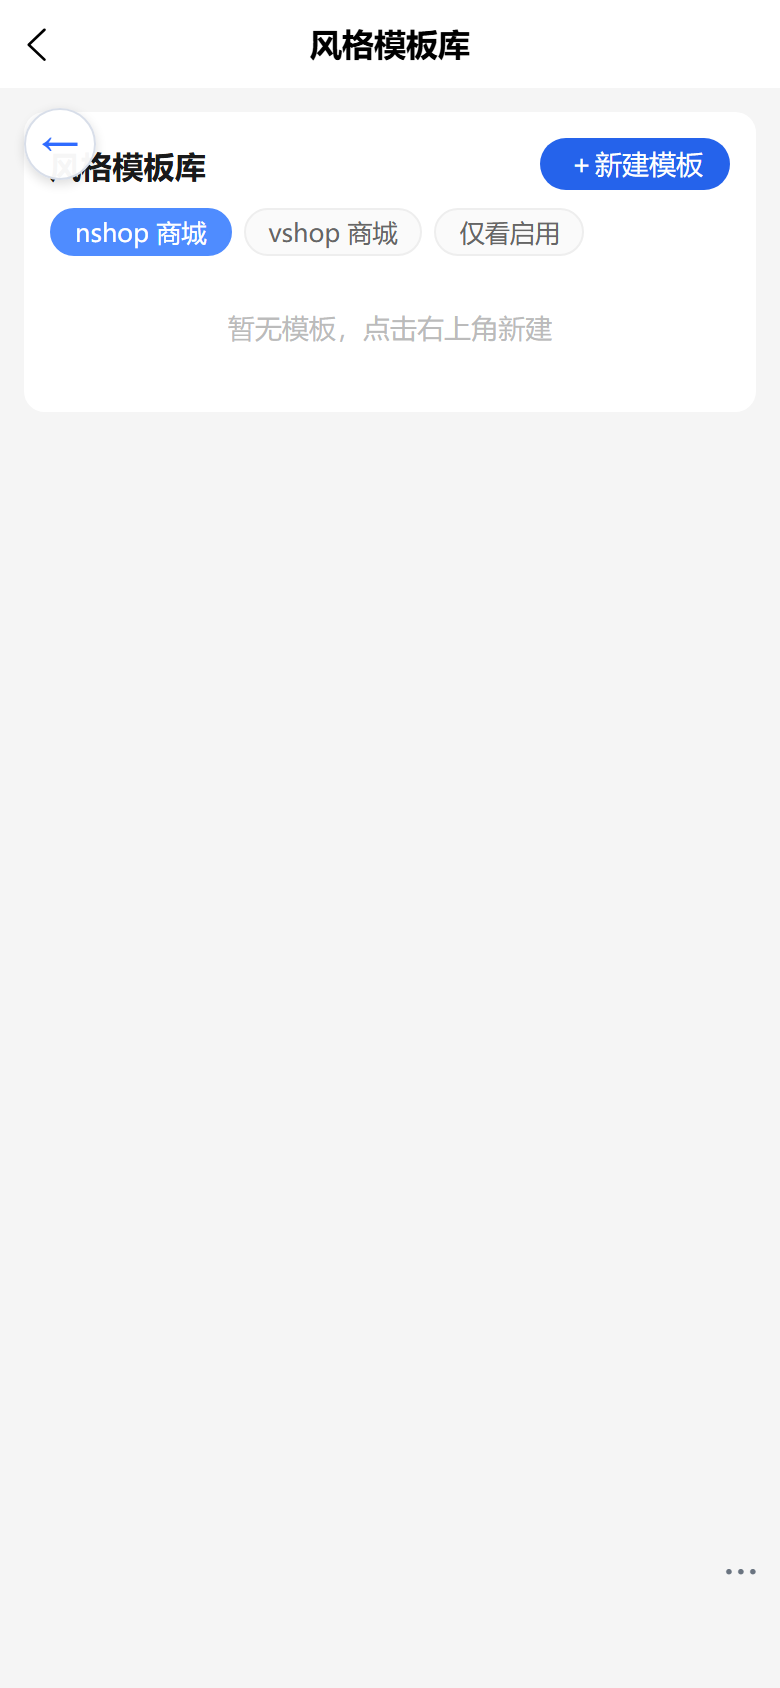
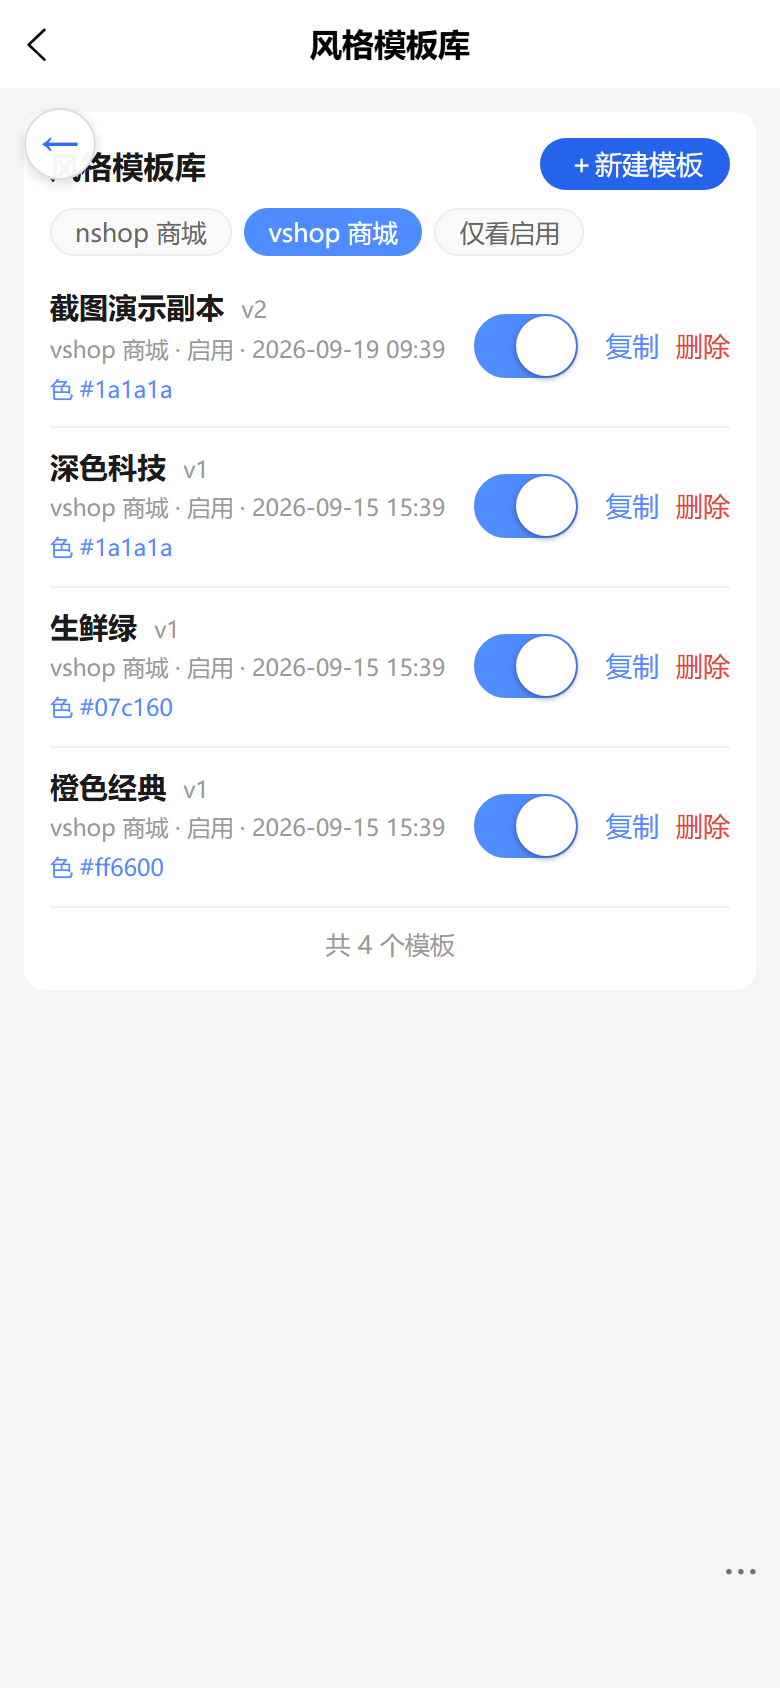
docs(admin): 补全多仓发货/模板管理手机截图

diff --git a/web-admin/_e2e/_shot_template_mgmt.py b/web-admin/_e2e/_shot_template_mgmt.py
@@ -1,11 +1,13 @@
 # -*- coding: utf-8 -*-
-# 风格模板库管理（引用徽标/历史版本/合并预览/删除警示）截图（租户管理员视角，390x844 dpr=2）
-# 账号：guoxinnanshan@163.com / you123123（t2 二月兰会员 租户管理员「田经理」）
-# 只截图与导航：警示框截图后点「取消」，历史版本不点「回滚」，不做删除/停用等写操作
+# 风格模板库管理（引用徽标/历史版本/合并预览/删除警示）截图（超管视角 + 副本模板制造版本历史）
+# 账号：superadmin / z123123
+# 副本安全：复制出一个「截图演示副本」→ 改名（产生 v1 快照）→ 截图 → API 删除副本，不留垃圾数据。
+# 只读导航：警示框截图后点「取消」，历史版本不点「回滚」，不做停用/删除真实模板。
 from playwright.sync_api import sync_playwright
-import time
+import time, json
 BASE='https://e.joho.cn/guanli/'
 SHOT='d:/zhao/vshop/web-admin/src/static/manual/shots/'
+COPY_NAME='截图演示副本'
 def shot(pg, name, delay=0):
     if delay: time.sleep(delay)
     pg.screenshot(path=SHOT+name)
@@ -17,50 +19,78 @@ with sync_playwright() as p:
     pg.goto(BASE,wait_until='networkidle',timeout=45000)
     pg.evaluate('localStorage.clear()'); pg.reload(wait_until='networkidle',timeout=45000)
     pg.locator('input').nth(0).wait_for(state='visible',timeout=30000)
-    pg.locator('input').nth(0).fill('guoxinnanshan@163.com')
-    pg.locator('input').nth(1).fill('you123123')
-    pg.locator('button, .btn').first.click(); time.sleep(7)
+    pg.locator('input').nth(0).fill('superadmin')
+    pg.locator('input').nth(1).fill('z123123')
+    pg.locator('button, .btn').first.click(); time.sleep(3)
+    # 选店页：点第一个店铺
+    try:
+        pg.locator('.item').first.click(timeout=8000); time.sleep(3)
+        print('channel selected')
+    except Exception as e:
+        print('channel select fail:', str(e)[:120])
     print('登录后 url=',pg.url, 'body=', pg.inner_text('body')[:120].replace('\n','|'))
-    # 选店：通过 API 获取 t2 channel token 注入 localStorage（绕开选店 UI 交互不稳定）
-    tok = pg.evaluate("""() => {
+    # 准备副本：清残留 → 复制第一个模板 → 改名（产生版本快照）→ 查版本
+    prep = pg.evaluate("""async (copyName) => {
       const t = localStorage.getItem('wa_auth_token');
-      return fetch('/admin-api', {method:'POST',
-        headers:{'Content-Type':'application/json','Authorization':'Bearer '+t},
-        body: JSON.stringify({query:'query{ myTenantAccess{ channels{ id code token } } }'})
-      }).then(r=>r.json()).then(d=>{
-        const c = (d.data.myTenantAccess.channels||[]).find(x=>x.code==='t2');
-        if (c) { localStorage.setItem('wa_channel_token', c.token); localStorage.setItem('wa_channel_code','t2'); return 'OK:'+c.token.slice(0,6); }
-        return 'NOCHANNEL';
-      }).catch(e=>'ERR:'+e.message);
-    }""")
-    print('channel token inject=', tok)
-    # 1) 模板列表（引用徽标）
-    pg.goto(BASE+'#/pages/platform/templates/index',wait_until='networkidle',timeout=45000); time.sleep(6)
+      const ct = localStorage.getItem('wa_channel_token');
+      const gql = async (query, variables) => {
+        const h = {'Content-Type':'application/json','Authorization':'Bearer '+t};
+        if (ct) h['vendure-token'] = ct;
+        const r = await fetch('/admin-api', {method:'POST',
+          headers:h,
+          body: JSON.stringify({query, variables})});
+        return r.json();
+      };
+      const F = 'id name app theme pages version enabled updatedAt';
+      let list = [];
+      for (const app of ['vshop','nshop']) {
+        const r = await gql('query ($app: String) { shopTemplates(app: $app) { '+F+' } }', {app});
+        if (r.data && Array.isArray(r.data.shopTemplates) && r.data.shopTemplates.length) { list = r.data.shopTemplates; break; }
+      }
+      if (!list.length) return JSON.stringify({err:'NO_TEMPLATES'});
+      const stale = list.find(x=>x.name===copyName);
+      if (stale) await gql('mutation ($id: ID!) { deleteShopTemplate(id: $id) }', {id: stale.id});
+      const t0 = list[0];
+      const cp = await gql('mutation ($id: ID!) { copyShopTemplate(id: $id) { '+F+' } }', {id: t0.id});
+      const c0 = cp.data && cp.data.copyShopTemplate;
+      if (!c0) return JSON.stringify({err:'COPY_FAIL', msg:(cp.errors?cp.errors[0].message:JSON.stringify(cp)).slice(0,200)});
+      const up = await gql('mutation ($input: UpdateShopTemplateInput!) { updateShopTemplate(input: $input) { '+F+' } }', {input: {id: c0.id, name: copyName}});
+      const vs = await gql('query ($id: ID!) { templateVersions(id: $id) { id version name note createdAt } }', {id: c0.id});
+      return JSON.stringify({src:{id:t0.id,app:t0.app,name:t0.name}, copy:{id:c0.id,app:c0.app,version:(up.data&&up.data.updateShopTemplate?up.data.updateShopTemplate.version:c0.version)}, versions:(vs.data&&vs.data.templateVersions||[]).map(v=>({v:v.version,name:v.name,note:v.note}))});
+    }""", COPY_NAME)
+    print('prep=', prep)
+    info = json.loads(prep)
+    copy_id = (info.get('copy') or {}).get('id','')
+    copy_app = (info.get('copy') or {}).get('app','vshop')
+    if info.get('err'):
+        print('PREP ERR:', info['err'])
+    # 进模板列表页
+    pg.goto(BASE+'#/pages/platform/templates/index',wait_until='networkidle',timeout=45000); time.sleep(5)
+    # 切到副本所在 app
+    try:
+        pg.locator('.chip', has_text='vshop 商城' if copy_app=='vshop' else 'nshop 商城').first.tap(timeout=5000); time.sleep(3)
+        print('app chip tapped:', copy_app)
+    except Exception as e:
+        print('app chip tap fail:', str(e)[:120])
     print('tpl list body=',pg.inner_text('body')[:500].replace('\n','|'))
     shot(pg,'tpl_list_badges.png')
-    # 2) 打开第一个模板编辑弹层 → 历史版本 Tab
+    # 打开副本模板编辑弹层
     try:
-        pg.locator('.item').first.tap(); time.sleep(2.5)
+        pg.locator('.item', has_text=COPY_NAME).first.tap(timeout=8000); time.sleep(2.5)
         print('edit modal body=',pg.inner_text('body')[:300].replace('\n','|'))
-        pg.locator('.tab', has_text='历史版本').tap(); time.sleep(3.5)
+        # 历史版本 Tab
+        pg.locator('.tab', has_text='历史版本').tap(timeout=5000); time.sleep(3)
         print('versions body=',pg.inner_text('body')[:400].replace('\n','|'))
         shot(pg,'tpl_history.png')
-        # 3) 合并预览 Tab（mApp 默认即模板 app，无覆盖场景直接生成；不做任何写操作）
-        pg.locator('.tab', has_text='合并预览').tap(); time.sleep(1.5)
-        pg.locator('.pop .btn', has_text='生成合并预览').first.tap(); time.sleep(3.5)
+        # 合并预览 Tab（默认无覆盖场景，mApp=模板 app）
+        pg.locator('.tab', has_text='合并预览').tap(timeout=5000); time.sleep(1.5)
+        pg.locator('.pop .btn', has_text='生成合并预览').first.tap(timeout=5000); time.sleep(3.5)
         if pg.locator('.mp').count() == 0:
             print('merged preview not shown, body=',pg.inner_text('body')[:400].replace('\n','|'))
         shot(pg,'tpl_preview.png')
-        # 4) 关闭弹层 → 删除警示框（优先被引用模板；无则第一个模板）→ 截图后取消
-        pg.locator('.pop-close').tap(); time.sleep(1.5)
-        refitem = pg.locator('.item', has_text='引用').first
-        if refitem.count() > 0:
-            refitem.locator('.link', has_text='删除').tap()
-            warn_from = 'referenced-template'
-        else:
-            pg.locator('.item .link', has_text='删除').first.tap()
-            warn_from = 'first-template'
-        time.sleep(2)
+        # 关闭弹层 → 副本删除警示框 → 截图后取消
+        pg.locator('.pop-close').tap(timeout=5000); time.sleep(1.5)
+        pg.locator('.item', has_text=COPY_NAME).locator('.link', has_text='删除').first.tap(timeout=8000); time.sleep(2)
         print('warn modal body=',pg.inner_text('body')[:400].replace('\n','|'))
         shot(pg,'tpl_warn.png')
         try:
@@ -68,10 +98,27 @@ with sync_playwright() as p:
             print('warn cancelled, mask count=', pg.locator('.mask').count())
         except Exception as e:
             print('cancel tap fail:', str(e)[:120])
+        warn_from = 'copy-template'
     except Exception as e:
-        print('template flow fail:', str(e)[:160])
+        print('template flow fail:', str(e)[:200])
         warn_from = 'flow-error'
         shot(pg,'tpl_warn.png')
     print('WARN FROM:', warn_from)
+    # 清理副本（API 删除，不留垃圾数据）
+    if copy_id:
+        del_res = pg.evaluate("""async (id) => {
+          const t = localStorage.getItem('wa_auth_token');
+          const ct = localStorage.getItem('wa_channel_token');
+          const h = {'Content-Type':'application/json','Authorization':'Bearer '+t};
+          if (ct) h['vendure-token'] = ct;
+          const r = await fetch('/admin-api', {method:'POST',
+            headers:h,
+            body: JSON.stringify({query:'mutation ($id: ID!) { deleteShopTemplate(id: $id) }', variables:{id}})});
+          const d = await r.json();
+          return JSON.stringify({deleted: d.data ? d.data.deleteShopTemplate : null, err: d.errors ? d.errors[0].message : null});
+        }""", copy_id)
+        print('DELETE_COPY=', del_res)
+    else:
+        print('DELETE_COPY=SKIP (no copy id)')
     b.close()
 print('done')

diff --git a/web-admin/_e2e/_shot_reservation.py b/web-admin/_e2e/_shot_reservation.py
@@ -1,7 +1,8 @@
 # -*- coding: utf-8 -*-
 # 预留单多仓拆分发货截图（租户管理员视角，390x844 dpr=2）
 # 账号：guoxinnanshan@163.com / you123123（t2 二月兰会员 租户管理员「田经理」）
-# 路径：优先用 t2 预留单 orderId 直进发货页（有仓库选择器）；无预留单则订单列表找待发货订单点「发货」进发货页
+# 路径：订单列表（本店渠道单）找可发货订单点「发货」→ 确认「进入发货」→ 发货页
+# 只读导航：不提交发货（不进 submit），出现确认框一律点取消/关闭。
 from playwright.sync_api import sync_playwright
 import time, json
 BASE='https://e.joho.cn/guanli/'
@@ -34,52 +35,95 @@ with sync_playwright() as p:
       }).catch(e=>'ERR:'+e.message);
     }""")
     print('channel token inject=', tok)
-    # 查 t2 是否有预留单（admin-api, Bearer wa_auth_token）
+    # 预留单探测（只读，不写；需带 channel token 上下文 vendure-token）
     rinfo = pg.evaluate("""async () => {
       const t = localStorage.getItem('wa_auth_token');
-      if (!t) return JSON.stringify({ err: 'NOTOKEN' });
+      const ct = localStorage.getItem('wa_channel_token');
+      const h = {'Content-Type':'application/json','Authorization':'Bearer '+t};
+      if (ct) h['vendure-token'] = ct;
       const r = await fetch('/admin-api', {method:'POST',
-        headers:{'Content-Type':'application/json','Authorization':'Bearer '+t},
-        body: JSON.stringify({query:'query { reservations(pageSize: 20) { totalItems items { orderId status } } }'})
-      });
+        headers:h,
+        body: JSON.stringify({query:'query { reservations(pageSize: 20) { totalItems items { orderId status } } }'})});
       const d = await r.json();
-      if (d.errors) return JSON.stringify({ err: JSON.stringify(d.errors).slice(0,200) });
+      if (d.errors) return JSON.stringify({ err: JSON.stringify(d.errors).slice(0,120) });
       const items = (d.data && d.data.reservations && d.data.reservations.items) || [];
       return JSON.stringify({ total: d.data.reservations.totalItems, first: items[0] || null });
     }""")
     print('reservations query=', rinfo)
-    path = 'unknown'
-    orderId = ''
-    try:
-        info = json.loads(rinfo)
-        if info.get('err'):
-            print('reservation query err, fallback to order list:', info['err'])
-            path = 'fallback-query-err'
-        elif info.get('first') and info['first'].get('orderId'):
-            orderId = info['first']['orderId']
-            path = 'reservation-direct'
-        else:
-            path = 'fallback-no-reservation'
-    except Exception as e:
-        path = 'fallback-parse-err'
-        print('reservation info parse err:', str(e)[:120])
-    if orderId:
-        pg.goto(BASE+'#/pages/order/ship/index?id='+orderId,wait_until='networkidle',timeout=45000); time.sleep(6)
-        print('ship page (reservation direct) url=',pg.url)
+    # 进入订单列表（默认本店渠道单 scope）
+    pg.goto(BASE+'#/pages/order/list/index',wait_until='networkidle',timeout=45000); time.sleep(6)
+    print('order list body=',pg.inner_text('body')[:300].replace('\n','|'))
+    # 路径一：UI 点「发货」→ 确认「进入发货」（click 而非 tap，兼容 uni-modal 按钮事件）
+    ship_ok = False
+    flow = 'unknown'
+    for attempt in range(3):
+        try:
+            pg.locator('.act.ship').first.tap(timeout=8000)
+        except Exception as e:
+            print(f'ship btn tap fail attempt={attempt}:', str(e)[:120])
+            break
+        time.sleep(1.5)
+        try:
+            if pg.locator('text=进入发货').count() > 0:
+                pg.locator('text=进入发货').first.click(timeout=5000)
+                print('confirm modal clicked')
+            else:
+                print('no confirm modal（可能直进）')
+        except Exception as e:
+            try:
+                pg.locator('text=进入发货').first.tap(timeout=4000)
+                print('confirm modal tapped (fallback)')
+            except Exception as e2:
+                print('confirm tap fail:', str(e2)[:120])
+        try:
+            pg.wait_for_url('**/pages/order/ship/index*', timeout=12000)
+            ship_ok = True
+            flow = 'ui-flow'
+            break
+        except Exception as e:
+            print(f'attempt={attempt} 未到发货页 url=', pg.url[:140])
+    # 路径二（兜底）：orders API 取第一个待发货订单直进发货页（绕开 Modal 自动化不确定性）
+    if not ship_ok:
+        order_info = pg.evaluate("""async () => {
+          const t = localStorage.getItem('wa_auth_token');
+          const ct = localStorage.getItem('wa_channel_token');
+          const h = {'Content-Type':'application/json','Authorization':'Bearer '+t};
+          if (ct) h['vendure-token'] = ct;
+          const r = await fetch('/admin-api', {method:'POST',
+            headers:h,
+            body: JSON.stringify({query:'query { orders(options: { take: 10 }) { items { id code state } } }'})});
+          const d = await r.json();
+          if (d.errors) return JSON.stringify({err: JSON.stringify(d.errors).slice(0,120)});
+          const items = (d.data && d.data.orders && d.data.orders.items) || [];
+          const picked = items.find(o => o.state === 'PaymentAuthorized' || o.state === 'PaymentSettled') || items[0] || null;
+          return JSON.stringify({total: items.length, picked: picked ? {id: picked.id, code: picked.code, state: picked.state} : null});
+        }""")
+        print('order info=', order_info)
+        try:
+            oi = json.loads(order_info)
+            oid = (oi.get('picked') or {}).get('id','')
+            if oid:
+                pg.goto(BASE+'#/pages/order/ship/index?id='+oid,wait_until='networkidle',timeout=45000); time.sleep(5)
+                flow = 'direct-flow'
+                ship_ok = True
+            else:
+                print('no shippable order found:', order_info)
+        except Exception as e:
+            print('direct flow fail:', str(e)[:120])
+    # UI 流程残留的确认 Modal 会遮挡发货页：直进后 reload 一次清掉（页面状态重置，重新加载发货数据）
+    if ship_ok and flow == 'direct-flow' and pg.locator('text=进入发货').count() > 0:
+        pg.reload(wait_until='networkidle', timeout=45000); time.sleep(5)
+        print('reloaded to clear residual confirm modal')
+    time.sleep(3)
+    if ship_ok:
+        body_txt = pg.inner_text('body')
+        print('ship page url=', pg.url)
+        print('ship page body=', body_txt[:400].replace('\n','|'))
+        wh = '仓库：' in body_txt or 'wh-pick' in pg.inner_html('body')
+        path = (flow or '') + ('/ship-multi-wh' if wh else '/ship-single-wh')
     else:
-        # 无预留单：订单列表 → 待发货 tab → 点「发货」→ 确认「进入发货」
-        pg.goto(BASE+'#/pages/order/list/index',wait_until='networkidle',timeout=45000); time.sleep(6)
-        try:
-            pg.locator('.tabs text', has_text='待发货').first.tap(); time.sleep(3)
-        except Exception as e:
-            print('tab 待发货 tap fail:', str(e)[:120])
-        print('order list body=',pg.inner_text('body')[:300].replace('\n','|'))
-        try:
-            pg.locator('.act.ship').first.tap(); time.sleep(2)
-            pg.locator('text=进入发货').first.tap(timeout=8000); time.sleep(6)
-        except Exception as e:
-            print('ship tap/modal fail（仍截图当前页）:', str(e)[:160])
-    print('ship page body=',pg.inner_text('body')[:400].replace('\n','|'))
+        path = 'not-reached'
+        print('未到达发货页 body=', pg.inner_text('body')[:200].replace('\n','|'))
     print('ACTUAL PATH:', path)
     shot(pg,'r15_reservation_ship.png')
     b.close()
